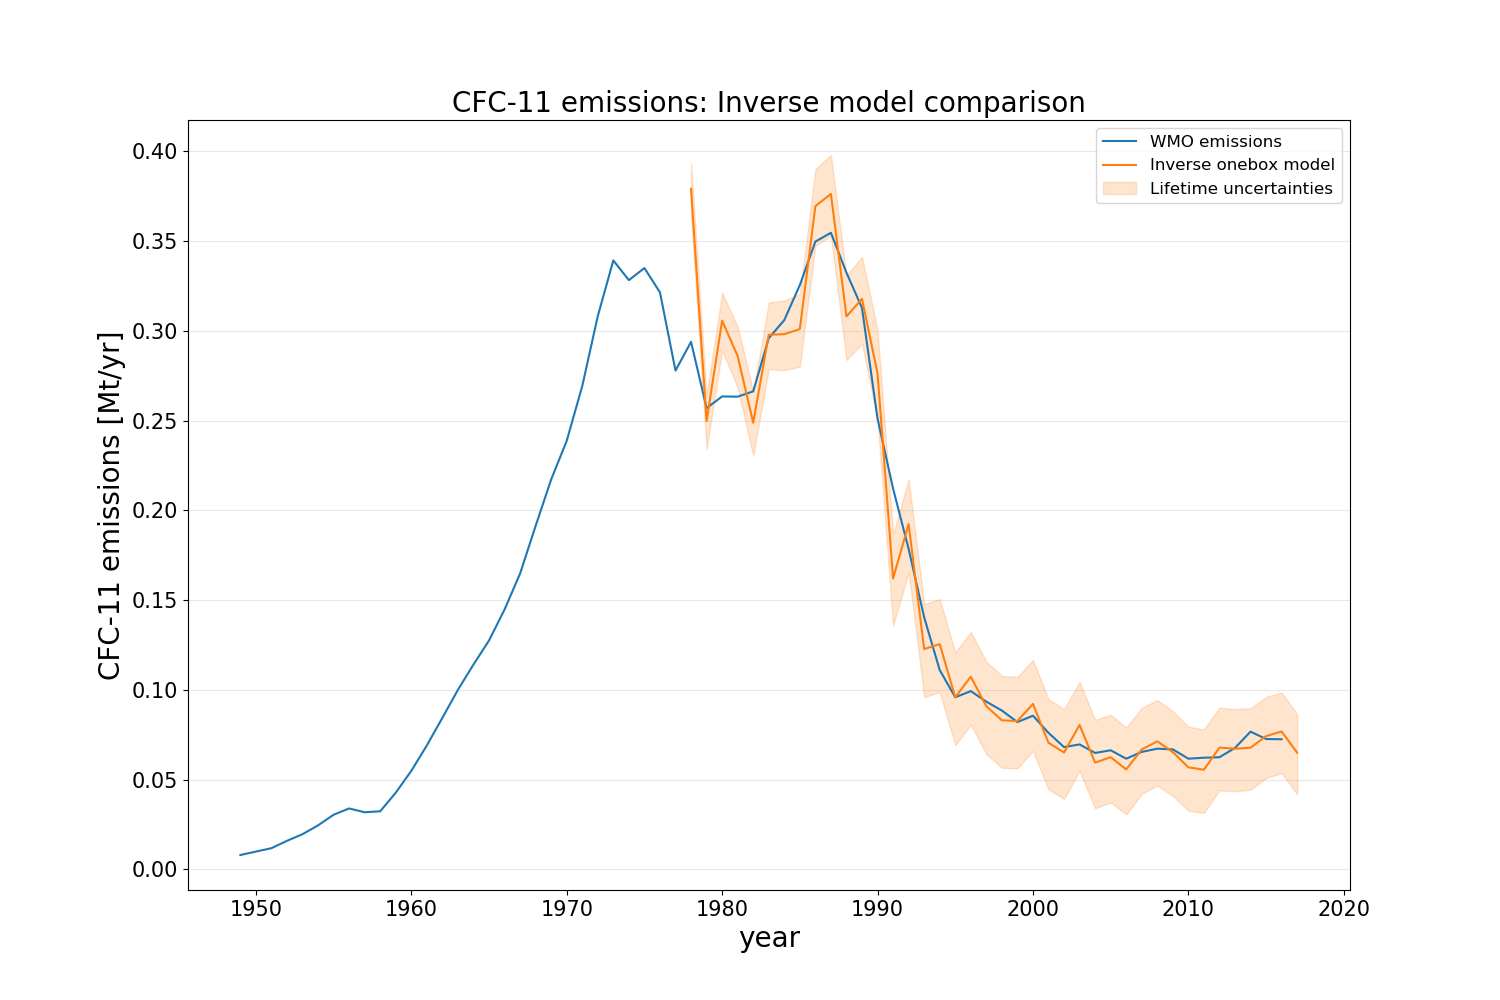
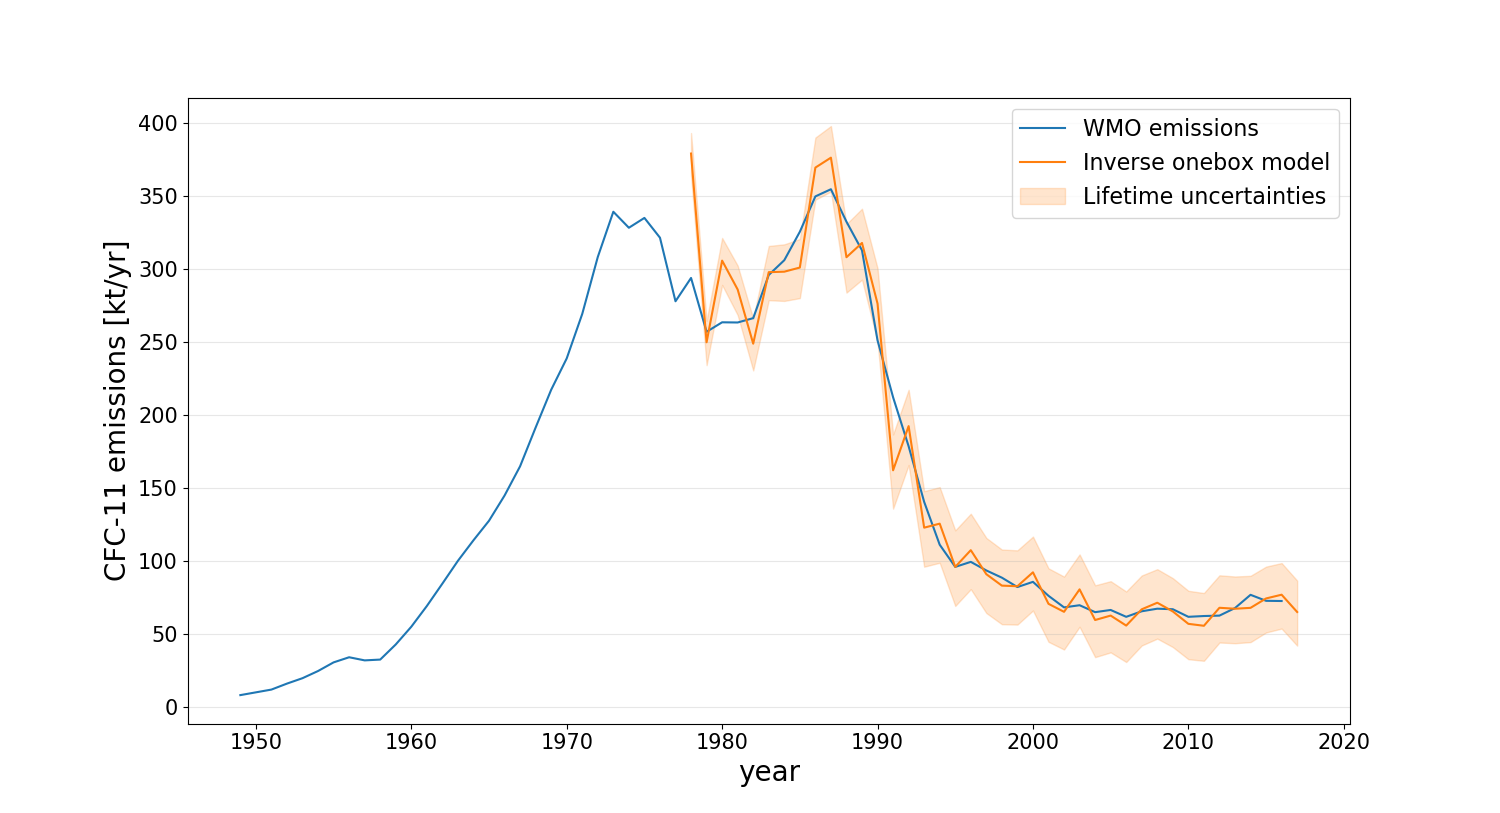
Figures

diff --git a/Code/lovelock.py b/Code/lovelock.py
@@ -11,6 +11,7 @@ import pandas as pd
 import matplotlib.pyplot as plt
 from oneboxmodel import oneboxeulerfw, oneboxRK4
 from twoboxmodel import twoboxeulerfw
+from matplotlib.ticker import MaxNLocator,ScalarFormatter
 
 
 substance_df = pd.DataFrame({'CH3CCl3': [1/5, 133.4,'.3'], 'CFC-11': [1/52, 137.37,''], 'CFC-12': [1/100, 120.91,'.1']})
@@ -36,61 +37,73 @@ dt=1 #timestep (years)
 
 
 plt.figure(figsize=[15,10])
-plt.title(substance+' concentration: Euler and RK4 comparison', fontsize=20)
-plt.plot(time, oneboxeulerfw(k,P_constant,C0,dt,MW),label='Euler', color='C1')
-plt.plot(time, oneboxRK4(k,P_constant,C0,dt,MW),label='RK4', color='C0')
-plt.ticklabel_format(axis='y', scilimits=(-12,-12))
+#plt.title(substance+' concentration: Euler and RK4 comparison', fontsize=20)
+plt.plot(time, oneboxeulerfw(k,P_constant,C0,dt,MW)*(10**12),label='Euler', color='C1')
+plt.plot(time, oneboxRK4(k,P_constant,C0,dt,MW)*(10**12),label='RK4', color='C0')
+ax = plt.gca()
+ax.xaxis.set_major_locator(MaxNLocator(integer=True))
+plt.yscale('log')
+plt.ylim(1,100)
 plt.ylabel(substance+' concentration [ppt]', fontsize=20)
 plt.xlabel('year', fontsize=20)
 plt.tick_params(labelsize=15)
 plt.grid(axis='y',alpha=.3)
-plt.legend(fontsize=12)
+plt.legend(fontsize=16)
 plt.savefig('Figures/LoveLock_Concentration__Euler_and_RK4_comparison.png')
 plt.show()
 
 #BOTH HEMISPHERES
 plt.figure(figsize=[15,10])
-plt.title(substance+' concentration twobox model', fontsize=20)
-plt.plot(time, twoboxeulerfw(k,ke,P_constant,C0N,C0S,dt,MW)[0],label='NH')
-plt.plot(time, twoboxeulerfw(k,ke,P_constant,C0N,C0S,dt,MW)[1],label='SH')
-plt.ticklabel_format(axis='y', scilimits=(-12,-12))
+#plt.title(substance+' concentration twobox model', fontsize=20)
+plt.plot(time, twoboxeulerfw(k,ke,P_constant,C0N,C0S,dt,MW)[0]*(10**12),label='NH')
+plt.plot(time, twoboxeulerfw(k,ke,P_constant,C0N,C0S,dt,MW)[1]*(10**12),label='SH')
+ax = plt.gca()
+ax.xaxis.set_major_locator(MaxNLocator(integer=True))
+plt.yscale('log')
+plt.ylim(1,100)
 plt.ylabel(substance+' concentration [ppt]', fontsize=20)
 plt.xlabel('year', fontsize=20)
 plt.tick_params(labelsize=15)
 plt.grid(axis='y',alpha=.3)
-plt.legend(fontsize=12)
-plt.savefig('Figures/Lovelock_concentration_twoboxmodel.png')
+plt.legend(fontsize=16)
+#plt.savefig('Figures/Lovelock_concentration_twoboxmodel.png')
 plt.show()
 
 #some plots   
 plt.figure(figsize=[15,10])
-plt.title(substance+' concentration twobox model: varying lifetime', fontsize=20)
-plt.plot(time, twoboxeulerfw(1/2*k,ke,P_constant,C0N,C0S,dt,MW)[0], 'b',label='NH k = {0:.2f}'.format(1/2*k))
-plt.plot(time, twoboxeulerfw(1/2*k,ke,P_constant,C0N,C0S,dt,MW)[1],'b',label='SH k = {0:.2f}'.format(1/2*k))
-plt.plot(time, twoboxeulerfw(k,ke,P_constant,C0N,C0S,dt,MW)[0], color='black',label='NH k = {0:.2f}'.format(k))
-plt.plot(time, twoboxeulerfw(k,ke,P_constant,C0N,C0S,dt,MW)[1], color='black',label='SH k = {0:.2f}'.format(k))
-plt.plot(time, twoboxeulerfw(2*k,ke,P_constant,C0N,C0S,dt,MW)[0], 'r',label='NH k = {0:.2f}'.format(2*k))
-plt.plot(time, twoboxeulerfw(2*k,ke,P_constant,C0N,C0S,dt,MW)[1], 'r',label='SH k = {0:.2f}'.format(2*k))
-plt.plot(time, twoboxeulerfw(4*k,ke,P_constant,C0N,C0S,dt,MW)[0], 'c',label='NH k = {0:.2f}'.format(4*k))
-plt.plot(time, twoboxeulerfw(4*k,ke,P_constant,C0N,C0S,dt,MW)[1], 'c',label='SH k = {0:.2f}'.format(4*k))
-plt.ticklabel_format(axis='y', scilimits=(-12,-12))
+#plt.title(substance+' concentration twobox model: varying lifetime', fontsize=20)
+plt.plot(time, twoboxeulerfw(1/2*k,ke,P_constant,C0N,C0S,dt,MW)[0]*(10**12), 'b',label='NH k = {0:.2f}'.format(1/2*k))
+plt.plot(time, twoboxeulerfw(1/2*k,ke,P_constant,C0N,C0S,dt,MW)[1]*(10**12),'b',label='SH k = {0:.2f}'.format(1/2*k))
+plt.plot(time, twoboxeulerfw(k,ke,P_constant,C0N,C0S,dt,MW)[0]*(10**12), color='black',label='NH k = {0:.2f}'.format(k))
+plt.plot(time, twoboxeulerfw(k,ke,P_constant,C0N,C0S,dt,MW)[1]*(10**12), color='black',label='SH k = {0:.2f}'.format(k))
+plt.plot(time, twoboxeulerfw(2*k,ke,P_constant,C0N,C0S,dt,MW)[0]*(10**12), 'r',label='NH k = {0:.2f}'.format(2*k))
+plt.plot(time, twoboxeulerfw(2*k,ke,P_constant,C0N,C0S,dt,MW)[1]*(10**12), 'r',label='SH k = {0:.2f}'.format(2*k))
+plt.plot(time, twoboxeulerfw(4*k,ke,P_constant,C0N,C0S,dt,MW)[0]*(10**12), 'c',label='NH k = {0:.2f}'.format(4*k))
+plt.plot(time, twoboxeulerfw(4*k,ke,P_constant,C0N,C0S,dt,MW)[1]*(10**12), 'c',label='SH k = {0:.2f}'.format(4*k))
+#plt.ticklabel_format(axis='y', scilimits=(-12,-12))
+ax = plt.gca()
+ax.xaxis.set_major_locator(MaxNLocator(integer=True))
+plt.yscale('log')
+plt.ylim(1,100)
 plt.ylabel(substance+' concentration [ppt]', fontsize=20)
 plt.xlabel('year', fontsize=20)
 plt.tick_params(labelsize=15)
-plt.grid()
-plt.legend(fontsize=12)
-plt.savefig('Figures/Lovelock_concentration_twoboxmodel_varying_lifetime.png')
+plt.grid(axis='y')
+plt.legend(fontsize=16)
+#plt.savefig('Figures/Lovelock_concentration_twoboxmodel_varying_lifetime.png')
 plt.show()
 
 plt.figure(figsize=[15,10])
-plt.title(substance+' concentration twobox model: Abrubt cease in emissions', fontsize=20)
-plt.plot(timestop, twoboxeulerfw(k,ke,P_stop,C0N,C0S,dt,MW)[0],label='NH')
-plt.plot(timestop, twoboxeulerfw(k,ke,P_stop,C0N,C0S,dt,MW)[1],label='SH')
-plt.ticklabel_format(axis='y', scilimits=(-12,-12))
+#plt.title(substance+' concentration twobox model: Abrubt cease in emissions', fontsize=20)
+plt.plot(timestop, twoboxeulerfw(k,ke,P_stop,C0N,C0S,dt,MW)[0]*(10**12),label='NH')
+plt.plot(timestop, twoboxeulerfw(k,ke,P_stop,C0N,C0S,dt,MW)[1]*(10**12),label='SH')
+ax = plt.gca()
+ax.xaxis.set_major_locator(MaxNLocator(integer=True))
+#plt.ticklabel_format(axis='y', scilimits=(-12,-12))
 plt.ylabel(substance+' concentration [ppt]', fontsize=20)
 plt.xlabel('year', fontsize=20)
 plt.tick_params(labelsize=15)
 plt.grid(axis='y',alpha=.3)
-plt.legend(fontsize=12)
+plt.legend(fontsize=16)
 plt.savefig('Figures/Lovelock_concentration_twoboxmodel_ceased_emissions.png')
 plt.show()

diff --git a/Code/realemissions.py b/Code/realemissions.py
@@ -56,46 +56,46 @@ ObsErrormax = O_df[substance]+O_df['---'+substance_df.iloc[2][substance]]
 ObsErrormin = O_df[substance]-O_df['---'+substance_df.iloc[2][substance]]
 
 #Inverse ERRORBARS
-Invmax = inverseonebox(1/67,O_df[substance]/(10**12),dt/12,MW)
-Invmin = inverseonebox(1/43,O_df[substance]/(10**12),dt/12,MW)
+Invmax = inverseonebox(1/67,O_df[substance]/(10**12),dt/12,MW)*1000
+Invmin = inverseonebox(1/43,O_df[substance]/(10**12),dt/12,MW)*1000
 
 
 #RK and observations comparison
 plt.figure(figsize=[15,10])
-plt.title(substance+' concentration: RK4 and observations comparison', fontsize=20)
-plt.plot(timebar, oneboxRK4(k,P,C0,dt,MW)*1.06,label='RK4 model', color='C0')
-plt.fill_between(timebar, Errormax, Errormin, alpha=0.2,label='Uncertainty range')
-plt.plot(O_df['time'],O_df[substance]/(10**12),label='AGAGE observations',color='C1')
-plt.fill_between(O_df['time'],ObsErrormax/(10**12),ObsErrormin/(10**12),alpha=0.3 ,color='C1')
-plt.ticklabel_format(axis='y', scilimits=(-12,-12))
+#plt.title(substance+' concentration: RK4 and observations comparison', fontsize=20)
+plt.plot(timebar, oneboxRK4(k,P,C0,dt,MW)*1.06*(10**12),label='RK4 model', color='C0')
+plt.fill_between(timebar, Errormax*(10**12), Errormin*(10**12), alpha=0.2,label='Uncertainty range')
+plt.plot(O_df['time'],O_df[substance],label='AGAGE observations',color='C1')
+plt.fill_between(O_df['time'],ObsErrormax,ObsErrormin,alpha=0.3 ,color='C1')
+#plt.ticklabel_format(axis='y', scilimits=(-12,-12))
 plt.ylabel(substance+' concentration [ppt]', fontsize=20)
 plt.xlabel('year', fontsize=20)
 plt.tick_params(labelsize=15)
-plt.legend(fontsize=12)
+plt.legend(fontsize=16)
 plt.grid(axis='y',alpha=.3)
-plt.savefig('Figures/Concentration__RK4_and_observations_comparison.png')
+#plt.savefig('Figures/Concentration__RK4_and_observations_comparison.png')
 plt.show()
 
 
 #Euler and RK4 comparison
 plt.figure(figsize=[15,10])
-plt.title(substance+' concentration: Euler and RK4 comparison', fontsize=20)
-plt.plot(timebar, oneboxeulerfw(k,P,C0,dt,MW)*1.06,label='Euler model', color='C3')
-plt.plot(timebar, oneboxRK4(k,P,C0,dt,MW)*1.06,label='RK4 model', color='C0')
-plt.plot(O_df['time'],O_df[substance]/(10**12),label='AGAGE observations', color='C1')
-plt.ticklabel_format(axis='y', scilimits=(-12,-12))
+#plt.title(substance+' concentration: Euler and RK4 comparison', fontsize=20)
+plt.plot(timebar, oneboxeulerfw(k,P,C0,dt,MW)*1.06*(10**12),label='Euler model', color='C3')
+plt.plot(timebar, oneboxRK4(k,P,C0,dt,MW)*1.06*(10**12),label='RK4 model', color='C0')
+plt.plot(O_df['time'],O_df[substance],label='AGAGE observations', color='C1')
+#plt.ticklabel_format(axis='y', scilimits=(-12,-12))
 plt.ylabel(substance+' concentration [ppt]', fontsize=20)
 plt.xlabel('year', fontsize=20)
 plt.tick_params(labelsize=15)
-plt.legend(fontsize=12)
+plt.legend(fontsize=16)
 plt.grid(axis='y',alpha=.3)
-plt.savefig('Figures/Concentration__Euler_and_RK4_comparison.png')
+#plt.savefig('Figures/Concentration__Euler_and_RK4_comparison.png')
 plt.show()
 
 
 
 
-P_monthly=inverseonebox(k,O_df[substance]/(10**12),dt/12,MW)
+P_monthly=inverseonebox(k,O_df[substance]/(10**12),dt/12,MW)*1000
 
 P_yearly=np.zeros(int(len(P_monthly)/12)+1)
 P_ymax=np.zeros(int(len(P_monthly)/12)+1)
@@ -120,15 +120,15 @@ pd.DataFrame(data={'P_yearly': P_yearly, 'P_ymax': P_ymax, 'P_ymin': P_ymin, 'ye
 
 #Emissions
 plt.figure(figsize=[15,10])
-plt.title(substance+' emissions: Inverse model comparison', fontsize=20)
-plt.plot(timebar, P, label='WMO emissions')
+#plt.title(substance+' emissions: Inverse model comparison', fontsize=20)
+plt.plot(timebar, P*1000, label='WMO emissions')
 #plt.plot(O_df['time'][:-1],inverseonebox(k,O_df[substance]/(10**12),dt/12,MW))
 plt.plot(np.linspace(1978,2017,40),P_yearly,label='Inverse onebox model',color='C1')
 plt.fill_between(np.linspace(1978,2017,40),P_ymin,P_ymax,alpha=0.2,color='C1',label='Lifetime uncertainties')
-plt.ylabel(substance+' emissions [Mt/yr]', fontsize=20)
+plt.ylabel(substance+' emissions [kt/yr]', fontsize=20)
 plt.xlabel('year', fontsize=20)
 plt.tick_params(labelsize=15)
-plt.legend(fontsize=12)
+plt.legend(fontsize=16)
 plt.grid(axis='y',alpha=.3)
-plt.savefig('Figures/Emissions__Inverse_model_comparison.png')
+#plt.savefig('Figures/Emissions__Inverse_model_comparison.png')
 plt.show()

diff --git a/Code/bottomup_emissionrange.py b/Code/bottomup_emissionrange.py
@@ -15,7 +15,7 @@ P_WMO2014_df=pd.read_excel('Data/emissions_2014.xlsx')
 P_WMO2018_df=pd.read_excel('Data/agage_emissions.xlsx')
 Comb_Em_df = pd.read_excel('Data/Combined_Cummulative_Production.xls',index_col=[0], parse_dates=True)
 AFEAS_df = pd.read_excel('Data/em_cfc_11.xls')
-Inv_em_df = pd.read_excel('Data/Yearly_Emissions_InverseModel.xls')*1000
+Inv_em_df = pd.read_excel('Data/Yearly_Emissions_InverseModel.xls')
 
 #create combined WMO dataset
 P_WMO2014=P_WMO2014_df['CFC-11 (Gg/yr)'] #select data from dataframe
@@ -130,33 +130,33 @@ timebar=np.insert(np.concatenate((P_WMO2014_df['time'].to_numpy()[:28],P_WMO2018
 
 #Emissions
 plt.figure(figsize=[15,10])
-plt.title('Bottom-up CFC-11 emissions range: Bank sensitivity', fontsize=20)
+#plt.title('Bottom-up CFC-11 emissions range: Bank sensitivity', fontsize=20)
 plt.plot(Comb_Em_df['year'],path1, label='Sensitivity - most likely', color='C2')
 plt.plot(Comb_Em_df['year'],path2, label='Sensitivity - High', color='C3')
 plt.plot(Comb_Em_df['year'],path3, label='Sensitivity - Low', color='C0')
 plt.plot(np.linspace(1978,2017,40),Inv_em_df['P_yearly'],label='Inverse onebox model', color='C1')
 plt.fill_between(np.linspace(1978,2017,40),Inv_em_df['P_ymin'],Inv_em_df['P_ymax'],alpha=0.3,color='C1',label='Lifetime uncertainties')
-plt.ylabel('CFC-11 emissions [Mt/yr]', fontsize=15)
+plt.ylabel('CFC-11 emissions [kt/yr]', fontsize=15)
 plt.xlabel('year', fontsize=15)
 plt.tick_params(labelsize=15)
 plt.grid(axis='y',alpha=.3)
-plt.legend(fontsize=12)
+plt.legend(fontsize=16)
 #plt.savefig('Figures/Bottemup_emissions_range_bank_sensitivity.png')
 plt.show()
 
 #Emission comparison WMO, AFEAS, bottomup, Inverse
 plt.figure(figsize=[15,10])
-plt.title('Bottom-up CFC-11 emissions: Bottem-up vs Top-down', fontsize=20)
+#plt.title('Bottom-up CFC-11 emissions: Bottom-up vs Top-down', fontsize=20)
 plt.plot(timebar, P_WMO_data*1000, label='Top-down: WMO emissions')
 plt.plot(np.linspace(1978,2017,40),Inv_em_df['P_yearly'],label='Top-down: Inverse onebox model', color='C1')
-plt.plot(Comb_Em_df['year'],path1, label='Bottem-up: most likely', color='C2')
-plt.plot(AFEAS_df['year'], AFEAS_df['R_annual'], label='Bottem-up: AFEAS', color='C3')
+plt.plot(Comb_Em_df['year'],path1, label='Bottom-up: most likely', color='C2')
+plt.plot(AFEAS_df['year'], AFEAS_df['R_annual'], label='Bottom-up: AFEAS', color='C3')
 plt.fill_between(np.linspace(1978,2017,40),Inv_em_df['P_ymin'],Inv_em_df['P_ymax'],alpha=0.3,color='C1',label='Lifetime uncertainties')
-plt.ylabel('CFC-11 emissions [Mt/yr]', fontsize=15)
+plt.ylabel('CFC-11 emissions [kt/yr]', fontsize=15)
 plt.xlabel('year', fontsize=15)
 plt.tick_params(labelsize=15)
 plt.grid(axis='y',alpha=.3)
-plt.legend(fontsize=12)
+plt.legend(fontsize=16)
 #plt.savefig('Figures/Emissions_AFEAS_WMO_inverse_and_bottemup.png')
 plt.show()
 
@@ -166,17 +166,17 @@ extra_f[8:]=extra_f[8:]+35
 
 
 plt.figure(figsize=[15,10])
-plt.title('Increased Closed-Cell Foam Production', fontsize=20)
-plt.plot(Comb_Em_df['year'],extra_foam, label='Bottem-up: most likely', color='C2')
+#plt.title('Increased Closed-Cell Foam Production', fontsize=20)
+plt.plot(Comb_Em_df['year'],extra_foam, label='Bottom-up: most likely', color='C2')
 plt.plot(np.linspace(1978,2017,40),Inv_em_df['P_yearly'],label='Inverse onebox model', color='C1')
 plt.fill_between(np.linspace(1978,2017,40),Inv_em_df['P_ymin'],Inv_em_df['P_ymax'],alpha=0.3,color='C1',label='Lifetime uncertainties')
 plt.bar(np.linspace(2002,2017,15), extra_f , width=1,alpha=0.3,color='C3',label='Extra Production Closed Foam')
-plt.ylabel('CFC-11 emissions [Mt/yr]', fontsize=15)
+plt.ylabel('CFC-11 emissions [kt/yr]', fontsize=15)
 plt.xlabel('year', fontsize=15)
 plt.tick_params(labelsize=15)
 plt.grid(axis='y',alpha=.3)
-plt.legend(fontsize=12)
-plt.savefig('Figures/Increased_Closed_Cell_Foam_Production.png')
+plt.legend(fontsize=16)
+#plt.savefig('Figures/Increased_Closed_Cell_Foam_Production.png')
 plt.show()
 
 

diff --git a/Code/bottomup.py b/Code/bottomup.py
@@ -84,24 +84,24 @@ f1 = plt.figure(1,figsize=[15,10])
 ax1 = plt.axes()
 ax1.stackplot(cum_df['year'],ERAC1,ERAC2,ERAC3,EClosed1,EClosed2,EClosed3,EOpen1,EOpen2,EOpen3,labels=labels,colors=colors)
 plt.legend(loc='upper left')
-plt.title('CFC-11 bottem-up Emissions per sector', fontsize=20)
+#plt.title('CFC-11 bottem-up Emissions per sector', fontsize=20)
 plt.ylabel('Emissions [ktonnes/year]', fontsize=20)
 plt.xlabel('Year', fontsize=20)
 plt.tick_params(labelsize=15)
-plt.legend(fontsize=12)
+plt.legend(fontsize=16,loc='upper left')
 plt.grid(axis='y',alpha=.3)
-plt.savefig('Figures/Bottemup_emissions.png')
+#plt.savefig('Figures/Bottemup_emissions.png')
 plt.show()
 
 f2 = plt.figure(2,figsize=[15,10])
 ax2 = plt.axes()
 ax2.stackplot(cum_df['year'],RAC,Closed,Open,colors = colors[2::3],labels = labels[2::3])
 plt.legend(loc='upper left')
-plt.title('CFC-11 bottem-up Banks per sector', fontsize=20)
+#plt.title('CFC-11 bottem-up Banks per sector', fontsize=20)
 plt.ylabel('Bank size [ktonnes]', fontsize=20)
 plt.xlabel('Year', fontsize=20)
 plt.tick_params(labelsize=15)
-plt.legend(fontsize=12)
+plt.legend(fontsize=15,loc='upper left')
 plt.grid(axis='y',alpha=.3)
-plt.savefig('Figures/Bottemup_banksize.png')
+#plt.savefig('Figures/Bottemup_banksize.png')
 plt.show()
